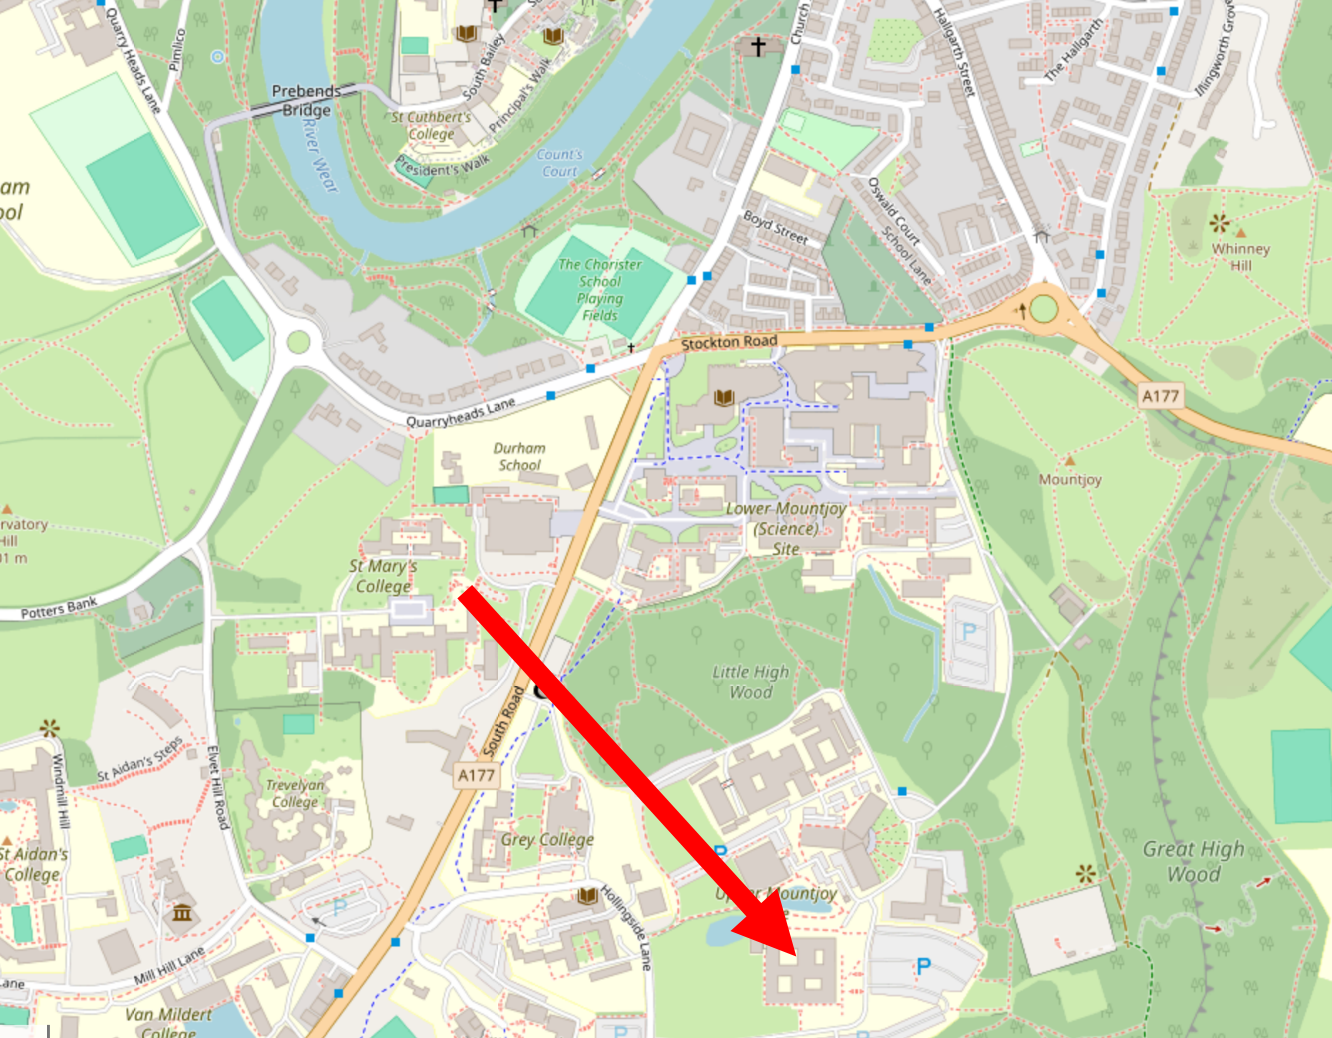
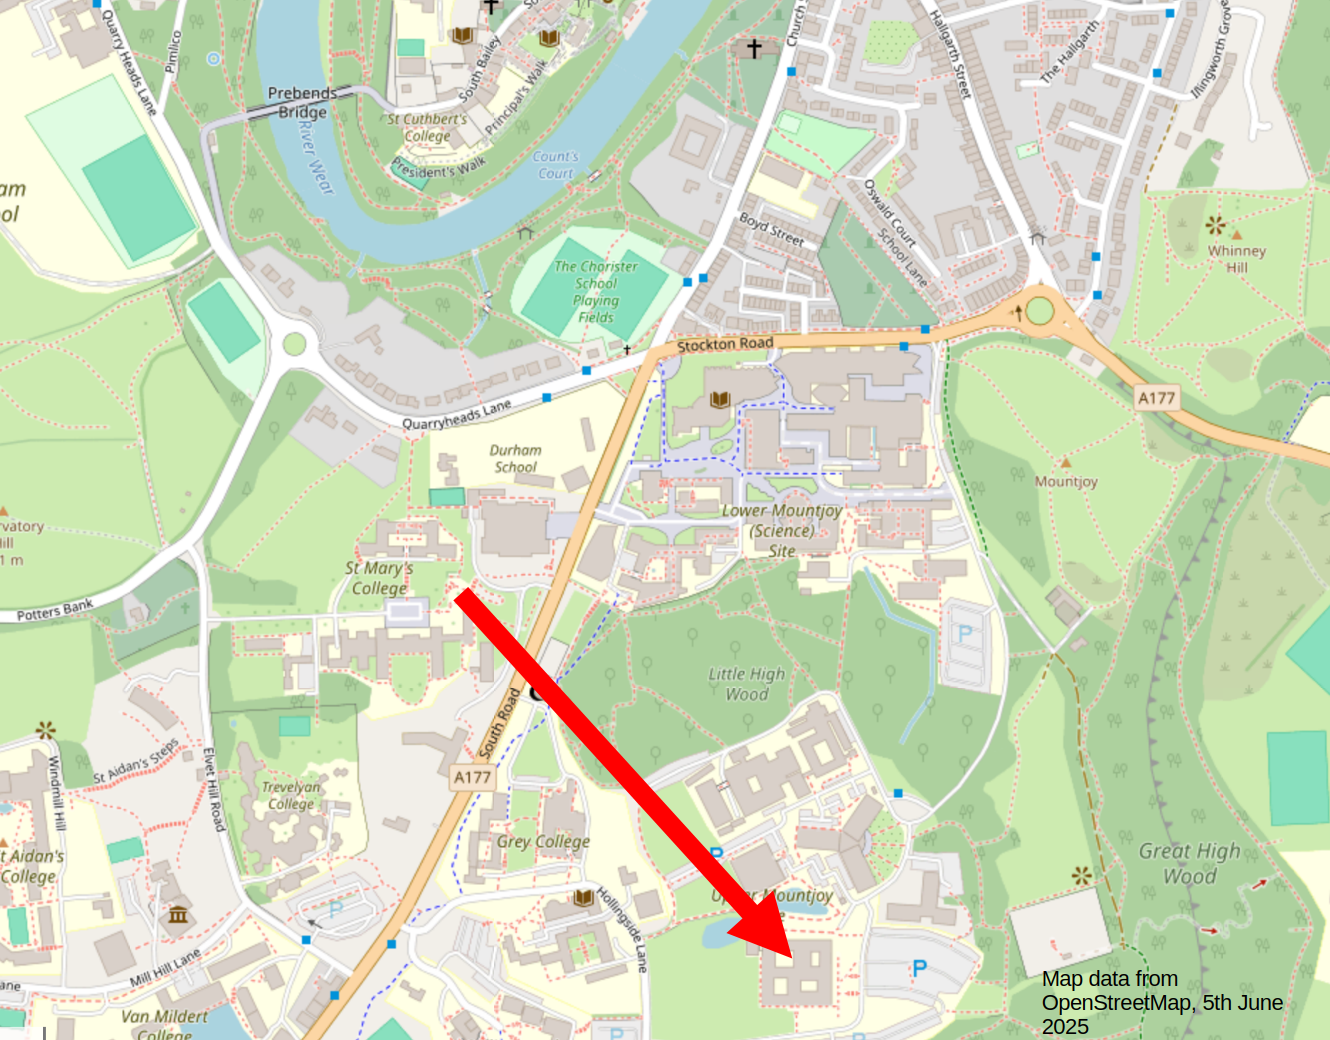
added attribution

diff --git a/docs/hpcdays/location.md b/docs/hpcdays/location.md
@@ -6,4 +6,6 @@ Department of Computer Science, Upper Mountjoy, Stockton Road, DH1 3LE.
 
 [What3words](https://what3words.com/vase.likely.light): ///vase.likely.light
 
+<small>Attribution: [OpenStreetMap](https://www.openstreetmap.org/copyright) - this map data is available under the [Open Database Licence](https://opendatacommons.org/licenses/odbl/).</small>
+
 Upon entering the building, please make your way up the stairs to the first floor, and HPC Days reception will be directly on your left where our friendly team will be around to sign you in.
